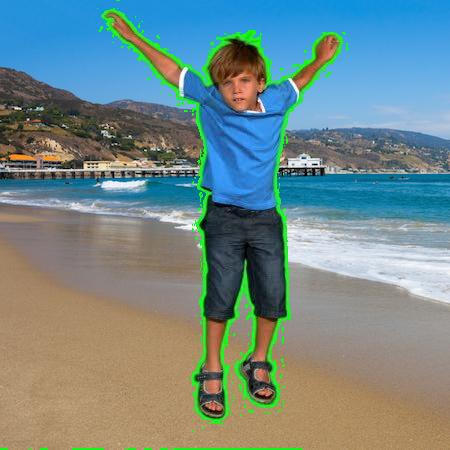
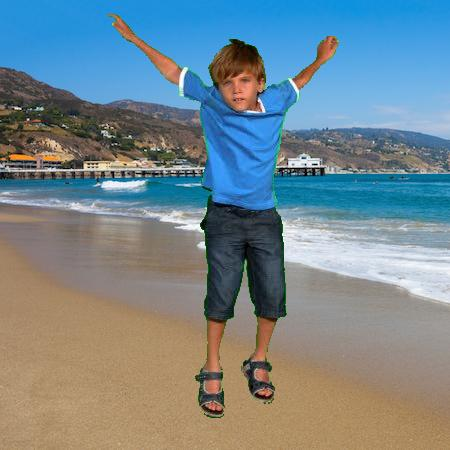
less green

diff --git a/colour_helper.py b/colour_helper.py
@@ -17,5 +17,5 @@ def pixel_to_string(pixel: tuple) -> str:
 
     r,g,b = pixel
 
-    if g > 250 and r < 32 and b < 32:
-        return "green"
+    if g > 105 and r < 105 and b < 105:
+        return "green" 
